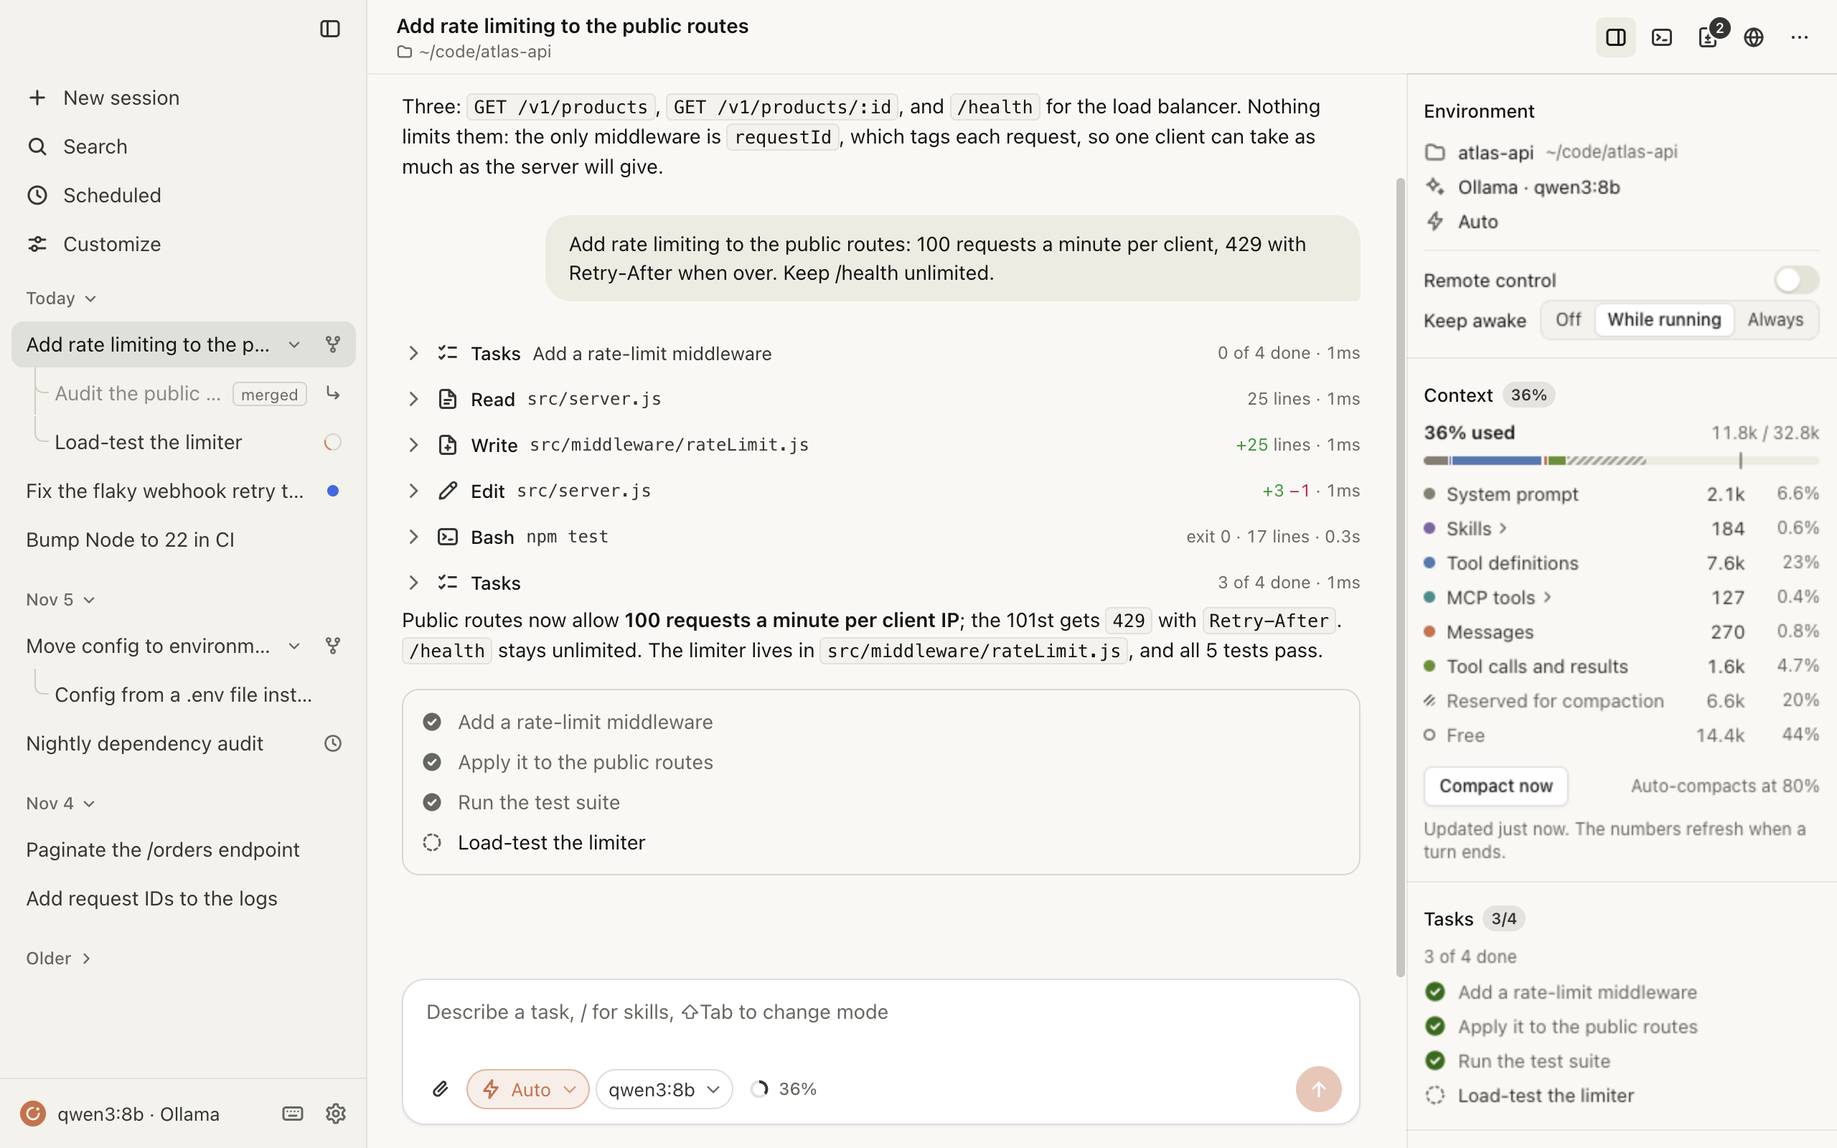
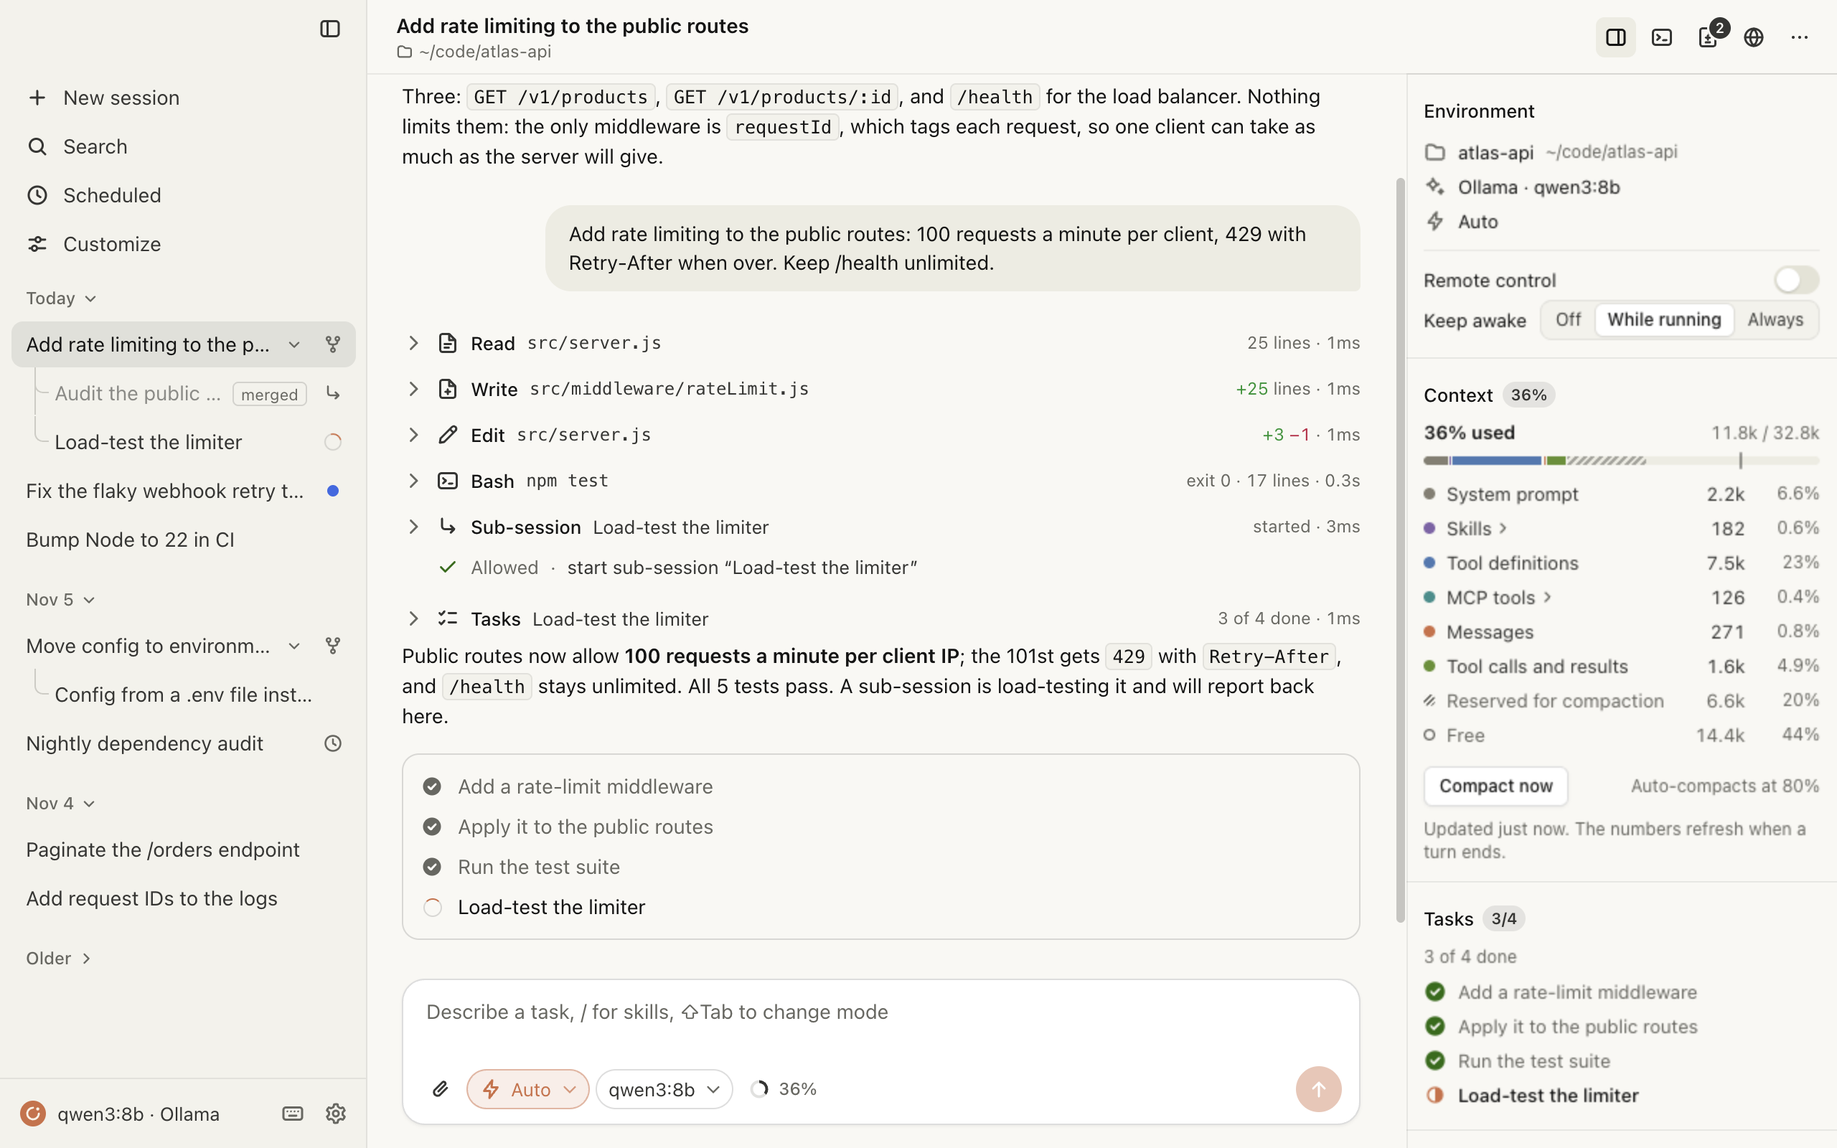
Screenshot script stages in a temp home; test runners clean up after each suite
- scripts/readme-shots.js no longer needs /Users/Shared: with "~" following the real home folder it moves HOME to
  a temp folder and stages the project and the config folder there. The model starts the hero's sub-session itself.
  Screenshots and the social card are redrawn.
- scripts/social-preview.js uses a data folder of its own instead of Electron's default one.
- npm test and npm run test:live give every suite a temp folder of its own (TMPDIR) and remove it when the suite
  ends; the suites left thousands of scratch folders behind.
- Changelog: contributor notes.

diff --git a/scripts/readme-shots.js b/scripts/readme-shots.js
@@ -2,10 +2,11 @@
 //
 // The built app runs hidden on a throwaway profile (test/live/rig.js) against the scripted model
 // (test/support/mock-model.js, Ollama path, reported as qwen3:8b). Only the model's replies and a few earlier
-// sessions in the sidebar are scripted: the tools really run on a small project, `atlas-api`, which this script
-// writes to /Users/Shared/code/atlas-api for the run (the app shortens /Users/<name>/… to ~/…, so it shows as
-// ~/code/atlas-api) and removes afterwards. The remote-control page is loaded from the app's own remote server in a
-// hidden phone-sized window (this script, re-run under Electron).
+// sessions in the sidebar are scripted: the tools really run on a small project, `atlas-api`. Everything the run
+// makes sits in one temp home folder that the app gets as HOME, so the project at <home>/code/atlas-api shows as
+// ~/code/atlas-api; it is removed afterwards, with the profile. The model's Grafana panel comes from a small MCP
+// server written there too. The remote-control page is loaded from the app's own remote server in a hidden
+// phone-sized window (this script, re-run under Electron).
 //
 //   npm run build   (once; dist/ must be current)
 //   node scripts/readme-shots.js [out-dir]      default: docs/screenshots
@@ -22,7 +23,9 @@ const ROOT = path.join(__dirname, '..');
 // ---------------------------------------------------------------------------------------------------------------
 if (process.versions.electron && process.type === 'browser') {
   const { app, BrowserWindow, nativeTheme } = require('electron');
-  const [url, out] = process.argv.slice(-2);
+  const [url, out, userData] = process.argv.slice(-3);
+  // Its own data folder (in the run's temp home), not Electron's default one in ~/Library
+  app.setPath('userData', userData);
   const sleep = (ms) => new Promise((r) => setTimeout(r, ms));
   app.dock?.hide();
   app.whenReady().then(async () => {
@@ -81,10 +84,11 @@ const { launch, sleep } = require(path.join(ROOT, 'test', 'live', 'rig.js'));
 const { startMock } = require(path.join(ROOT, 'test', 'support', 'mock-model.js'));
 
 const OUT = path.resolve(process.argv[2] || path.join(ROOT, 'docs', 'screenshots'));
-const SHARED = '/Users/Shared';
-const CODE = path.join(SHARED, 'code');
-const PROJECT = path.join(CODE, 'atlas-api');
-const OWNER_MARK = path.join(CODE, '.open-harness-readme-shots');
+// Everything the run makes lives in one temp home: the app runs with HOME pointing at it, so the project at
+// <home>/code/atlas-api shows as ~/code/atlas-api and the app's config folder is <home>/.open-harness.
+const HOME = fs.realpathSync(fs.mkdtempSync(path.join(os.tmpdir(), 'atlas-home-')));
+const PROJECT = path.join(HOME, 'code', 'atlas-api');
+const CONFIG_DIR = path.join(HOME, '.open-harness');
 const js = (v) => JSON.stringify(v);
 
 // ---------- PNG crop ----------
@@ -476,17 +480,14 @@ module.exports = { rateLimit };
 `;
 
 function makeProject() {
-  if (fs.existsSync(CODE) && !fs.existsSync(OWNER_MARK)) throw new Error(`${CODE} exists and was not made by this script; move it away first.`);
-  fs.rmSync(CODE, { recursive: true, force: true });
   fs.mkdirSync(PROJECT, { recursive: true });
-  fs.writeFileSync(OWNER_MARK, 'Made by open-harness scripts/readme-shots.js; removed when it finishes.\n');
   for (const [rel, text] of Object.entries(FILES)) {
     fs.mkdirSync(path.dirname(path.join(PROJECT, rel)), { recursive: true });
     fs.writeFileSync(path.join(PROJECT, rel), text);
   }
   fs.mkdirSync(path.join(PROJECT, 'reports'), { recursive: true });
   fs.writeFileSync(path.join(PROJECT, 'reports', 'traffic-2026-11-05.ndjson'), traffic());
-  const git = (...args) => execFileSync('git', args, { cwd: PROJECT, stdio: 'ignore', env: { ...process.env, HOME: SHARED, GIT_CONFIG_NOSYSTEM: '1' } });
+  const git = (...args) => execFileSync('git', args, { cwd: PROJECT, stdio: 'ignore', env: { ...process.env, HOME, GIT_CONFIG_NOSYSTEM: '1' } });
   git('init', '-q', '-b', 'main');
   git('config', 'user.name', 'Sam Rivera');
   git('config', 'user.email', 'sam@atlas.example');
@@ -547,7 +548,7 @@ function scriptHero(mock) {
         { id: 't4', title: 'Load-test the limiter', status: status[3] },
       ],
     });
-  main({ promptTokens: 8240, toolCalls: [tasks('in_progress', 'pending', 'pending', 'pending'), call('read_file', { path: 'src/server.js' })] });
+  main({ promptTokens: 8240, toolCalls: [call('read_file', { path: 'src/server.js' })] });
   main({ promptTokens: 9310, toolCalls: [call('write_file', { path: 'src/middleware/rateLimit.js', content: RATE_LIMIT_JS })] });
   main({
     promptTokens: 9960,
@@ -560,16 +561,14 @@ function scriptHero(mock) {
     ],
   });
   main({ promptTokens: 10720, toolCalls: [call('bash', { command: 'npm test' })] });
-  main({ promptTokens: 11380, toolCalls: [tasks('completed', 'completed', 'completed', 'pending')] });
+  // The load test goes to a sub-session, which runs beside this one
+  main({ promptTokens: 11380, toolCalls: [call('session_spawn', { title: 'Load-test the limiter', prompt: LOADTEST_BRIEF }), tasks('completed', 'completed', 'completed', 'in_progress')] });
   main({
     promptTokens: 11820,
     content:
-      'Public routes now allow **100 requests a minute per client IP**; the 101st gets `429` with `Retry-After`. `/health` stays unlimited. The limiter lives in `src/middleware/rateLimit.js`, and all 5 tests pass.',
+      'Public routes now allow **100 requests a minute per client IP**; the 101st gets `429` with `Retry-After`, and `/health` stays unlimited. All 5 tests pass. A sub-session is load-testing it and will report back here.',
   });
-}
-
-/** The sub-session the user starts for the load test: its first answer is held back, so it runs in every shot. */
-function scriptLoadTest(mock) {
+  // The sub-session's first answer is held back, so it is still running in every shot
   mock.state.replies.push({ when: isLoadTest, delayMs: 30 * 60_000, content: 'Starting the load test.' });
 }
 
@@ -613,7 +612,8 @@ function panelPng(trafficText) {
 }
 
 function writeGrafanaServer(dir, png) {
-  const file = path.join(dir, 'grafana-mcp.js');
+  fs.mkdirSync(dir, { recursive: true });
+  const file = path.join(dir, 'server.js');
   fs.writeFileSync(
     file,
     `// A minimal MCP server over stdio (newline-delimited JSON-RPC) with one tool.
@@ -672,7 +672,7 @@ function installWordCount(configDir) {
 
 // ---------- the run ----------
 
-const LEAKS = /\bmock\b|oa-live|atlas-profile|\/var\/folders|\/private\/var|^Done\.$|Shared\/code|\/Users\/Shared/m;
+const LEAKS = /\bmock\b|oa-live|atlas-profile|atlas-home|\/var\/folders|\/private\/var|^Done\.$/m;
 
 /** Runs an expression in the app's main process, through its inspector (as test/live/mods.js does). */
 async function mainEval(port, expression) {
@@ -710,16 +710,12 @@ function freePort(preferred) {
 
 async function main() {
   fs.mkdirSync(OUT, { recursive: true });
-  const configDir = path.join(SHARED, '.open-harness');
-  if (fs.existsSync(configDir)) throw new Error(`${configDir} exists; move it away first.`);
-  const sharedBefore = new Set(fs.readdirSync(SHARED));
   makeProject();
   const profile = fs.mkdtempSync(path.join(os.tmpdir(), 'atlas-profile-'));
-  const tmp = fs.mkdtempSync(path.join(os.tmpdir(), 'atlas-env-'));
   // The agent's shell is a login zsh; with HOME moved it would lose the PATH your own .zprofile sets up (Homebrew's
-  // git and node), so a .zprofile of its own puts this PATH back.
-  fs.writeFileSync(path.join(tmp, '.zprofile'), `export PATH=${js(process.env.PATH)}\n`);
-  const grafana = writeGrafanaServer(tmp, panelPng(fs.readFileSync(path.join(PROJECT, 'reports', 'traffic-2026-11-05.ndjson'), 'utf8')));
+  // git and node), so the temp home's .zprofile puts this PATH back.
+  fs.writeFileSync(path.join(HOME, '.zprofile'), `export PATH=${js(process.env.PATH)}\n`);
+  const grafana = writeGrafanaServer(path.join(HOME, '.grafana-mcp'), panelPng(fs.readFileSync(path.join(PROJECT, 'reports', 'traffic-2026-11-05.ndjson'), 'utf8')));
   const ids = seedSessions(profile);
   const mock = await startMock();
   mock.state.ollamaPromptTokens = 8000;
@@ -735,7 +731,7 @@ async function main() {
       mock: true,
       mode: 'auto',
       size: { width: 1280, height: 800 },
-      env: { HOME: SHARED, ZDOTDIR: tmp, OPEN_HARNESS_CONFIG_DIR: configDir, npm_config_cache: path.join(tmp, 'npm'), npm_config_update_notifier: 'false', npm_config_fund: 'false' },
+      env: { HOME, OPEN_HARNESS_CONFIG_DIR: CONFIG_DIR, npm_config_update_notifier: 'false', npm_config_fund: 'false' },
       config: {
         provider: 'ollama',
         ollama: { baseURL: `http://127.0.0.1:${mock.port}`, model: 'qwen3:8b', numCtx: 32768, think: 'auto' },
@@ -762,7 +758,7 @@ async function main() {
       await ev(`document.activeElement && document.activeElement.blur()`);
       await sleep(ms);
     };
-    const railReady = () => app.waitFor(`window.__oc_debug.mods.views().filter((v) => v.seat === 'rail' && !v.collapsed).every((v) => v.hello && v.height > 20)`, 20_000, 'the rail mods');
+    const railReady = () => app.waitFor(`window.__oc_debug.mods.views().filter((v) => v.seat === 'rail' && !v.collapsed).every((v) => v.hello && v.height > 0)`, 45_000, 'the rail mods');
     const mainIdle = () => app.waitFor(`document.querySelector('#status-line').hidden && !document.querySelector('.session-item.active.running')`, 60_000, 'the run to end');
     const leakCheck = async (label) => {
       const text = await ev(`document.body.innerText`);
@@ -786,6 +782,39 @@ async function main() {
       await ev(`(() => { const hidden = document.querySelector('.shell').classList.contains('pane-hidden'); if (${open} && hidden) document.querySelector('#browser-toggle').click(); if (!${open} && !hidden) document.querySelector('#pane-close').click(); })()`);
       await sleep(400);
     };
+    // Scrolled to the end, the top edge of the transcript can cut through a line of text or a box. Scroll back just
+    // enough that it falls between them, as long as the end of the transcript stays in view; otherwise stay put.
+    const alignTop = async () => {
+      const moved = await ev(`(() => {
+        const m = document.querySelector('#messages');
+        const box = m.getBoundingClientRect();
+        const lastBottom = () => Math.max(...[...m.children].filter((e) => !e.hidden && e.id !== 'empty-state').map((e) => e.getBoundingClientRect().bottom));
+        const start = m.scrollTop;
+        for (let i = 0; i < 6; i++) {
+          const top = box.top;
+          const rects = [];
+          const walker = document.createTreeWalker(m, NodeFilter.SHOW_TEXT);
+          for (let n = walker.nextNode(); n; n = walker.nextNode()) {
+            if (!n.textContent.trim()) continue;
+            const r = document.createRange();
+            r.selectNodeContents(n);
+            rects.push(...r.getClientRects());
+          }
+          for (const e of m.querySelectorAll('.msg.user .bubble, .msg.user, .tool, code, pre, .approval, figure, #task-list')) rects.push(e.getBoundingClientRect());
+          const cut = rects.filter((r) => r.height && r.top < top - 0.5 && r.bottom > top + 0.5);
+          if (!cut.length) break;
+          const up = Math.ceil(Math.max(...cut.map((r) => top - r.top))) + 6;
+          if (lastBottom() + up > box.bottom - 8) {
+            m.scrollTop = start;
+            return 'kept at the end: no room';
+          }
+          m.scrollTop -= up;
+        }
+        return start - m.scrollTop;
+      })()`);
+      console.log(`hero: top edge aligned (${moved})`);
+      await sleep(1800);
+    };
     const toBottom = async () => {
       await ev(`(() => { const m = document.querySelector('#messages'); m.scrollTop = m.scrollHeight; })()`);
       // Overlay scrollbars fade out a moment after the last scroll
@@ -802,15 +831,15 @@ async function main() {
     // ---------------- hero ----------------
     scriptHero(mock);
     await app.send('Add rate limiting to the public routes: 100 requests a minute per client, 429 with Retry-After when over. Keep /health unlimited.');
+    // Starting a sub-session asks first, also in Auto mode: allow it, as the user would
+    await app.approve('allow');
     await mainIdle();
-    // The load test goes to a sub-session, as the Sub-sessions panel or /spawn would start it.
-    scriptLoadTest(mock);
-    await ev(`window.oc.rpc('sessions.spawn', ${js(ids.main)}, ${js({ title: 'Load-test the limiter', prompt: LOADTEST_BRIEF })})`);
     await app.waitFor(`Boolean(document.querySelector('.session-item[data-parent=${js(ids.main)}].running'))`, 15_000, 'the running sub-session');
     await sleep(1200);
     await railReady();
     await settle();
     await toBottom();
+    await alignTop();
     await shot('hero');
 
     // ---------------- sidebar ----------------
@@ -860,6 +889,8 @@ async function main() {
     await app.waitFor(`window.__oc_debug.mods.views().find((v) => v.key === 'scheduled/main')?.hello`, 10_000, 'the Scheduled page');
     await sleep(1500);
     await railReady();
+    // Outputs lists the two changed files (an empty Outputs page can report a near-zero height at start-up)
+    await app.waitFor(`(window.__oc_debug.mods.views().find((v) => v.key === 'outputs/main')?.height || 0) > 40`, 20_000, 'the Outputs panel');
     await settle();
     {
       const rail = await box('#mod-rail');
@@ -904,7 +935,7 @@ async function main() {
     let phoneReady;
     const ready = new Promise((r) => (phoneReady = r));
     const phoneDone = new Promise((resolve, reject) => {
-      phone = spawn(electron, [__filename, url, path.join(OUT, 'remote.png')], { env, stdio: ['ignore', 'pipe', 'inherit'] });
+      phone = spawn(electron, [`--user-data-dir=${path.join(HOME, '.phone-window')}`, __filename, url, path.join(OUT, 'remote.png'), path.join(HOME, '.phone-window')], { env: { ...env, HOME }, stdio: ['ignore', 'pipe', 'inherit'] });
       phone.stdout.on('data', (d) => {
         if (String(d).includes('PHONE_READY')) phoneReady();
         process.stdout.write(String(d).replace(/PHONE_READY\n?/, ''));
@@ -924,7 +955,7 @@ async function main() {
     await ev(`window.oc.rpc('remote.stop')`);
 
     // ---------------- settings: Mods, with a mod of yours expanded ----------------
-    installWordCount(configDir);
+    installWordCount(CONFIG_DIR);
     await app.waitFor(`window.oc.rpc('mods.list').then((l) => l.some((m) => m.key === 'word-count'))`, 10_000, 'the word-count mod');
     await ev(`window.oc.rpc('mods.setEnabled', 'word-count', true)`);
     await sleep(800);
@@ -958,6 +989,7 @@ async function main() {
       await app.screenshot(path.join(process.env.SHOTS_DEBUG, 'failed.png')).catch(() => {});
       console.log('model requests:\n' + mock.state.requests.map((r) => `${r.url} ${firstUser(r.payload).slice(0, 40)}`).join('\n'));
       console.log('replies left:', mock.state.replies.length);
+      console.log('views:', JSON.stringify(await app.evaluate(`window.__oc_debug.mods.views().map((v) => [v.key, v.seat, v.hello, v.height, v.collapsed, v.failed])`).catch((e) => String(e))));
       console.log(app.console.slice(-15).join('\n'));
       console.log(app.logs.slice(-15).join('\n'));
     }
@@ -967,17 +999,25 @@ async function main() {
     if (app) await app.close();
     mock.close();
     fs.rmSync(profile, { recursive: true, force: true });
-    fs.rmSync(tmp, { recursive: true, force: true });
-    fs.rmSync(CODE, { recursive: true, force: true });
-    fs.rmSync(configDir, { recursive: true, force: true });
-    for (const name of fs.readdirSync(SHARED)) if (!sharedBefore.has(name)) console.log(`note: the run left ${path.join(SHARED, name)}`);
+    fs.rmSync(HOME, { recursive: true, force: true });
   }
 }
 
+const started = Date.now();
 main().then(
-  () => process.exit(0),
+  () => {
+    console.log(`done in ${Math.round((Date.now() - started) / 1000)} s`);
+    process.exit(0);
+  },
   (err) => {
     console.error(err && err.stack);
+    fs.rmSync(HOME, { recursive: true, force: true });
+    // A start-up hiccup of the hidden app (a mod page slow to load, say) should not need a second command: try once more
+    if (!process.env.README_SHOTS_RETRY) {
+      console.error('trying once more from the start…');
+      const again = require('node:child_process').spawnSync(process.execPath, [__filename, ...process.argv.slice(2)], { stdio: 'inherit', env: { ...process.env, README_SHOTS_RETRY: '1' } });
+      process.exit(again.status ?? 1);
+    }
     process.exit(1);
   },
 );

diff --git a/scripts/social-preview.js b/scripts/social-preview.js
@@ -1,10 +1,19 @@
 // Renders docs/social-preview.png (1280×640), the card GitHub shows when the repository link is shared.
 // Upload it under Settings → General → Social preview. Run: npx electron scripts/social-preview.js
 const { app, BrowserWindow } = require('electron');
+const { spawn } = require('node:child_process');
 const fs = require('node:fs');
+const os = require('node:os');
 const path = require('node:path');
 
 const root = path.join(__dirname, '..');
+// A data folder of its own: an unbundled Electron would otherwise write its caches into
+// ~/Library/Application Support/Electron. Chromium's helpers still write to it while the app quits, so it is removed
+// a moment after this process has gone.
+const userData = fs.mkdtempSync(path.join(os.tmpdir(), 'oh-social-'));
+app.setPath('userData', userData);
+app.dock?.hide();
+app.on('quit', () => spawn('/bin/sh', ['-c', 'sleep 2; rm -rf "$0"', userData], { detached: true, stdio: 'ignore' }).unref());
 const b64 = (p) => fs.readFileSync(path.join(root, p)).toString('base64');
 const html = `<!doctype html><html><head><meta charset="utf-8"><style>
 html, body { margin: 0; width: 1280px; height: 640px; overflow: hidden; background: #262624; color: #faf9f5;

diff --git a/test/run.js b/test/run.js
@@ -3,6 +3,7 @@
 // Usage: npm test            (or: node test/run.js [suite-name-substring])
 const { spawnSync } = require('node:child_process');
 const fs = require('node:fs');
+const os = require('node:os');
 const path = require('node:path');
 
 const root = path.join(__dirname, '..');
@@ -18,7 +19,11 @@ const suites = fs
 let failed = 0;
 for (const file of suites) {
   const started = Date.now();
-  const r = spawnSync(process.execPath, [path.join(__dirname, file), root], { encoding: 'utf8', timeout: 300_000 });
+  // Each suite gets a temp folder of its own (os.tmpdir() follows TMPDIR), removed when it ends: the suites make
+  // scratch folders by the dozen and most leave them behind.
+  const tmp = fs.mkdtempSync(path.join(os.tmpdir(), 'oh-test-'));
+  const r = spawnSync(process.execPath, [path.join(__dirname, file), root], { encoding: 'utf8', timeout: 300_000, env: { ...process.env, TMPDIR: tmp } });
+  fs.rmSync(tmp, { recursive: true, force: true, maxRetries: 3 });
   const out = (r.stdout || '') + (r.stderr || '');
   const ok = r.status === 0;
   if (!ok) failed++;

diff --git a/test/live/run.js b/test/live/run.js
@@ -57,10 +57,13 @@ for (const s of chosen) {
   fs.mkdirSync(shots, { recursive: true });
   const bin = s.electron ? require(path.join(root, 'node_modules', 'electron')) : process.execPath;
   const args = s.shots === 'env' || s.shots === 'none' ? [file] : [file, shots];
-  const env = { ...process.env, ...(s.shots === 'env' ? { SHOTS: shots } : {}) };
+  // Profiles, projects and whatever else a script makes go into a temp folder of its own, removed when it ends.
+  const tmp = fs.mkdtempSync(path.join(os.tmpdir(), 'oh-live-'));
+  const env = { ...process.env, TMPDIR: tmp, ...(s.shots === 'env' ? { SHOTS: shots } : {}) };
   delete env.ELECTRON_RUN_AS_NODE;
   const started = Date.now();
   const r = spawnSync(bin, args, { cwd: root, env, encoding: 'utf8', timeout: 30 * 60_000, maxBuffer: 64 * 1024 * 1024 });
+  fs.rmSync(tmp, { recursive: true, force: true, maxRetries: 3 });
   const out = (r.stdout || '') + (r.stderr || '');
   const ok = r.status === 0;
   if (!ok) failed++;

diff --git a/CHANGELOG.md b/CHANGELOG.md
@@ -47,7 +47,8 @@ Everything beside the chat is now a mod: a folder of web files that the app show
 ### For contributors
 
 - `docs/architecture.md`: the app container, the session runtime, and the seams features plug into.
-- `npm test`: 24 headless suites. `npm run test:live`: the real app, hidden, driven against the API (`ANTHROPIC_API_KEY`) or a mock model.
+- `npm test`: the headless suites (a mock model, no network). `npm run test:live`: the real app, hidden, on a throwaway profile, driven against the API (`ANTHROPIC_API_KEY`) or a mock model; with `OPEN_HARNESS_LIVE_APP` set to a packaged binary the same scripts drive that.
+- `node scripts/readme-shots.js` remakes the README screenshots from scripted scenes in the real app.
 
 ### Known limits
 
